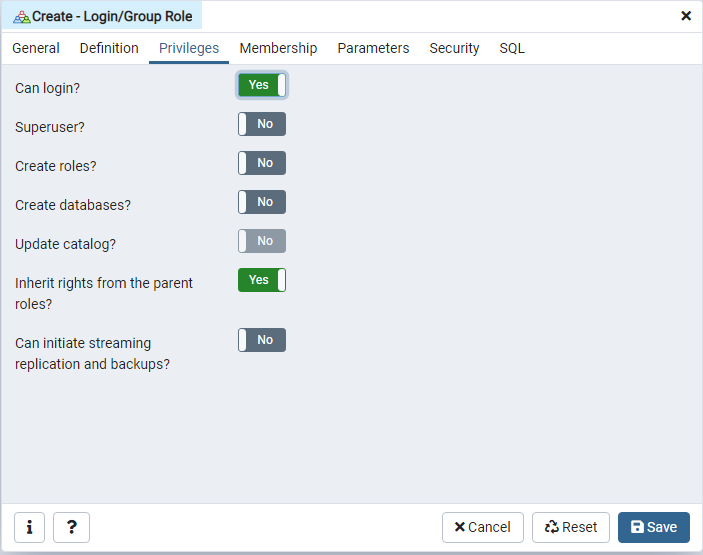
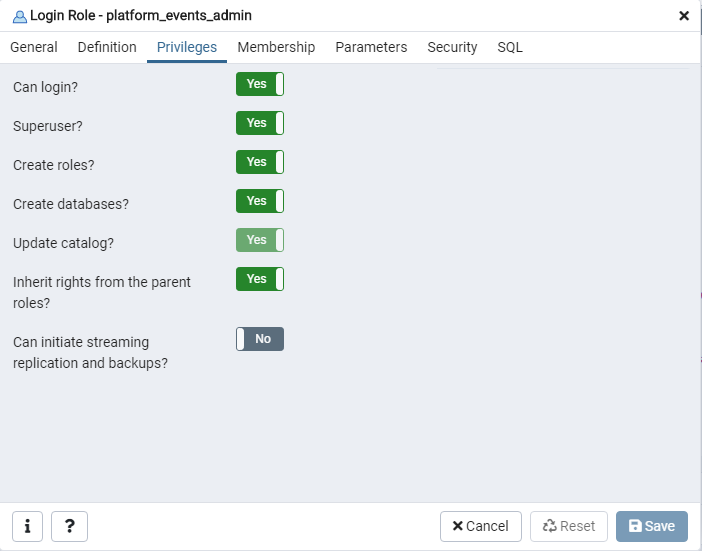
updated how to

diff --git a/content/teknologi/altinnstudio/development/handbook/postgres/_index.md b/content/teknologi/altinnstudio/development/handbook/postgres/_index.md
@@ -41,14 +41,11 @@ _platform_events_admin_ and _platform_events_.
 3. Navigate to the _Definition_ tab and insert password: `Password`
 ![Step 3](images/setup-user-3.PNG "Step 3")
 
-4. Navigate to the _Priviliges_ tab and enable _Can login_
+4. Navigate to the _Priviliges_ tab and enable all options and click _Save.
 ![Step 4](images/setup-user-4.PNG "Step 4")
 
-5. Navigate to the _Membership_ tab and include `postgres` as a role and click _Save
+5. Confirm that the user has been created in the side bar.
+If you cannot see the user, try refreshing the _Login/Group Roles_ section.
 ![Step 5](images/setup-user-5.PNG "Step 5")
 
-6. Confirm that the user has been created in the side bar.
-If you cannot see the user, try refreshing the _Login/Group Roles_ section.
-![Step 6](images/setup-user-6.PNG "Step 6")
-
-7. Repeat steps 1 thorugh 6 for user _platform_events_
+7. TODO: instructions on _platform_events_
